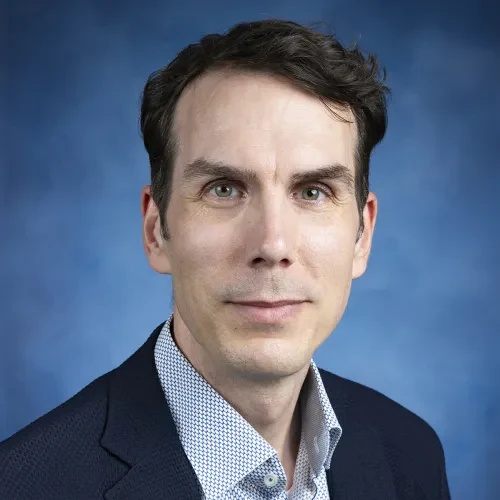
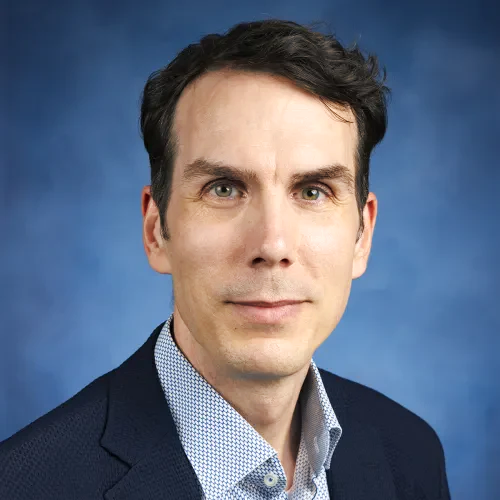
Update site.css and site.js version across multiple pages for consistent styling and functionality improvements.

diff --git a/people/lars-fritsche/index.html b/people/lars-fritsche/index.html
@@ -29,7 +29,7 @@
 <link rel="icon" href="/assets/images/fritsche-lab-favicon.svg" type="image/svg+xml">
 <link rel="alternate" type="application/atom+xml" title="Fritsche Lab updates" href="/feed.xml">
 <script src="/assets/js/theme.js"></script>
-<link rel="stylesheet" href="/assets/css/site.css?v=1789827741">
+<link rel="stylesheet" href="/assets/css/site.css?v=1790614448">
 
 <script type="application/ld+json">{  "@context": "https://schema.org",    "@type": "Person",  "name": "Lars Fritsche",  "description": "Lars Fritsche is a statistical geneticist and biostatistician who leads the Fritsche Lab at the University of Michigan.",  "jobTitle": "Lab Head",  "url": "https://fritschelab.org/people/lars-fritsche/",  "affiliation": {"@type": "CollegeOrUniversity", "name": "University of Michigan", "url": "https://umich.edu/"},  "image": "https://fritschelab.org/assets/images/people/lars-fritsche.webp",  "sameAs": ["https://medschool.umich.edu/profile/4980/lars-fritsche", "https://sph.umich.edu/faculty-profiles/fritsche-lars.html", "https://orcid.org/0000-0002-2110-1690", "https://scholar.google.com/citations?user=K8kwj8cAAAAJ", "https://www.webofscience.com/wos/author/record/AAF-9387-2019", "https://www.scopus.com/authid/detail.uri?authorId=9233771300"]  }</script>
 
@@ -205,6 +205,6 @@
   </div>
 </footer>
 
-    <script src="/assets/js/site.js?v=1789827741" defer></script>
+    <script src="/assets/js/site.js?v=1790614448" defer></script>
   </body>
 </html>

diff --git a/people/shivalika-pathania/index.html b/people/shivalika-pathania/index.html
@@ -29,7 +29,7 @@
 <link rel="icon" href="/assets/images/fritsche-lab-favicon.svg" type="image/svg+xml">
 <link rel="alternate" type="application/atom+xml" title="Fritsche Lab updates" href="/feed.xml">
 <script src="/assets/js/theme.js"></script>
-<link rel="stylesheet" href="/assets/css/site.css?v=1789827741">
+<link rel="stylesheet" href="/assets/css/site.css?v=1790614448">
 
 <script type="application/ld+json">{  "@context": "https://schema.org",    "@type": "Person",  "name": "Shivalika Pathania",  "description": "Shivalika Pathania applies statistical genetics and integrates genomic and electronic health record data to study complex disease risk.",  "jobTitle": "Postdoctoral Research Fellow",  "url": "https://fritschelab.org/people/shivalika-pathania/",  "affiliation": {"@type": "CollegeOrUniversity", "name": "University of Michigan", "url": "https://umich.edu/"},  "image": "https://fritschelab.org/assets/images/people/shivalika-pathania.webp",  "sameAs": ["https://orcid.org/0000-0001-5601-9569", "https://scholar.google.com/citations?user=UoaknzEAAAAJ&hl=en", "https://github.com/ShivalikaP", "https://www.linkedin.com/in/shivalika-pathania-95214465"]  }</script>
 
@@ -209,6 +209,6 @@
   </div>
 </footer>
 
-    <script src="/assets/js/site.js?v=1789827741" defer></script>
+    <script src="/assets/js/site.js?v=1790614448" defer></script>
   </body>
 </html>

diff --git a/collaborations/index.html b/collaborations/index.html
@@ -29,7 +29,7 @@
 <link rel="icon" href="/assets/images/fritsche-lab-favicon.svg" type="image/svg+xml">
 <link rel="alternate" type="application/atom+xml" title="Fritsche Lab updates" href="/feed.xml">
 <script src="/assets/js/theme.js"></script>
-<link rel="stylesheet" href="/assets/css/site.css?v=1789827741">
+<link rel="stylesheet" href="/assets/css/site.css?v=1790614448">
 
 <script type="application/ld+json">{  "@context": "https://schema.org",    "@type": "WebPage",  "name": "Research & Collaboration Network",  "description": "Explore collaborators, keywords, and research directions in an interactive map of the Fritsche Lab publication record.",  "url": "https://fritschelab.org/collaborations/",  "isPartOf": {"@type": "WebSite", "name": "Fritsche Lab", "url": "https://fritschelab.org"}  }</script>
 
@@ -251,7 +251,7 @@
 
 <script src="/assets/vendor/cytoscape/cytoscape.min.js" defer=""></script>
 
-<script src="/assets/js/collaboration-network.js?v=1789827741" defer=""></script>
+<script src="/assets/js/collaboration-network.js?v=1790614448" defer=""></script>
 
 
   </div>
@@ -286,6 +286,6 @@
   </div>
 </footer>
 
-    <script src="/assets/js/site.js?v=1789827741" defer></script>
+    <script src="/assets/js/site.js?v=1790614448" defer></script>
   </body>
 </html>

diff --git a/people/ryan-welch/index.html b/people/ryan-welch/index.html
@@ -29,7 +29,7 @@
 <link rel="icon" href="/assets/images/fritsche-lab-favicon.svg" type="image/svg+xml">
 <link rel="alternate" type="application/atom+xml" title="Fritsche Lab updates" href="/feed.xml">
 <script src="/assets/js/theme.js"></script>
-<link rel="stylesheet" href="/assets/css/site.css?v=1789827741">
+<link rel="stylesheet" href="/assets/css/site.css?v=1790614448">
 
 <script type="application/ld+json">{  "@context": "https://schema.org",    "@type": "Person",  "name": "Ryan Welch",  "description": "Ryan Welch’s research spans statistical genetics, bioinformatics, computational genomics, pharmacogenomics, and research software development.",  "jobTitle": "Application Programmer/Analyst Lead",  "url": "https://fritschelab.org/people/ryan-welch/",  "affiliation": {"@type": "CollegeOrUniversity", "name": "University of Michigan", "url": "https://umich.edu/"},  "image": "https://fritschelab.org/assets/images/people/ryan-welch.webp",  "sameAs": ["https://github.com/welchr", "https://orcid.org/0000-0001-6378-1295"]  }</script>
 
@@ -201,6 +201,6 @@
   </div>
 </footer>
 
-    <script src="/assets/js/site.js?v=1789827741" defer></script>
+    <script src="/assets/js/site.js?v=1790614448" defer></script>
   </body>
 </html>

diff --git a/people/tai-yang/index.html b/people/tai-yang/index.html
@@ -29,7 +29,7 @@
 <link rel="icon" href="/assets/images/fritsche-lab-favicon.svg" type="image/svg+xml">
 <link rel="alternate" type="application/atom+xml" title="Fritsche Lab updates" href="/feed.xml">
 <script src="/assets/js/theme.js"></script>
-<link rel="stylesheet" href="/assets/css/site.css?v=1789827741">
+<link rel="stylesheet" href="/assets/css/site.css?v=1790614448">
 
 <script type="application/ld+json">{  "@context": "https://schema.org",    "@type": "Person",  "name": "Tai Yang",  "description": "Tai Yang generates polygenic scores using published GWAS summary statistics and benchmarks them for mental health, sleep, and behavioral traits. He also develops distribution-valued regression methods.",  "jobTitle": "Graduate Student Research Assistant (GSRA) and PhD Candidate",  "url": "https://fritschelab.org/people/tai-yang/",  "affiliation": {"@type": "CollegeOrUniversity", "name": "University of Michigan", "url": "https://umich.edu/"},  "image": "https://fritschelab.org/assets/images/people/tai-yang.webp"  }</script>
 
@@ -213,6 +213,6 @@
   </div>
 </footer>
 
-    <script src="/assets/js/site.js?v=1789827741" defer></script>
+    <script src="/assets/js/site.js?v=1790614448" defer></script>
   </body>
 </html>

diff --git a/people/sarah-fazal/index.html b/people/sarah-fazal/index.html
@@ -29,7 +29,7 @@
 <link rel="icon" href="/assets/images/fritsche-lab-favicon.svg" type="image/svg+xml">
 <link rel="alternate" type="application/atom+xml" title="Fritsche Lab updates" href="/feed.xml">
 <script src="/assets/js/theme.js"></script>
-<link rel="stylesheet" href="/assets/css/site.css?v=1789827741">
+<link rel="stylesheet" href="/assets/css/site.css?v=1790614448">
 
 <script type="application/ld+json">{  "@context": "https://schema.org",    "@type": "Person",  "name": "Sarah Fazal",  "description": "Sarah Fazal studies chronic overlapping pain conditions and nociplastic pain, with a focus on patient heterogeneity and biological mechanisms.",  "jobTitle": "Postdoctoral Research Fellow",  "url": "https://fritschelab.org/people/sarah-fazal/",  "affiliation": {"@type": "CollegeOrUniversity", "name": "University of Michigan", "url": "https://umich.edu/"},  "image": "https://fritschelab.org/assets/images/people/sarah-fazal.webp",  "sameAs": ["https://orcid.org/0000-0001-9064-6152"]  }</script>
 
@@ -197,6 +197,6 @@
   </div>
 </footer>
 
-    <script src="/assets/js/site.js?v=1789827741" defer></script>
+    <script src="/assets/js/site.js?v=1790614448" defer></script>
   </body>
 </html>

diff --git a/news/amd-blindness-prediction-funding-2018/index.html b/news/amd-blindness-prediction-funding-2018/index.html
@@ -29,7 +29,7 @@
 <link rel="icon" href="/assets/images/fritsche-lab-favicon.svg" type="image/svg+xml">
 <link rel="alternate" type="application/atom+xml" title="Fritsche Lab updates" href="/feed.xml">
 <script src="/assets/js/theme.js"></script>
-<link rel="stylesheet" href="/assets/css/site.css?v=1789827741">
+<link rel="stylesheet" href="/assets/css/site.css?v=1790614448">
 
 <script type="application/ld+json">{  "@context": "https://schema.org",    "@type": "NewsArticle",  "headline": "Eye expert leads research to better predict blindness in patients",  "description": "An international collaboration combines clinical measures, retinal imaging, genetics, and machine learning to study progression of age-related macular degeneration.",  "datePublished": "2018-07-12T00:00:00-04:00",  "mainEntityOfPage": "https://fritschelab.org/news/amd-blindness-prediction-funding-2018/",  "publisher": {"@type": "ResearchOrganization", "name": "Fritsche Lab", "url": "https://fritschelab.org"}  }</script>
 
@@ -193,6 +193,6 @@
   </div>
 </footer>
 
-    <script src="/assets/js/site.js?v=1789827741" defer></script>
+    <script src="/assets/js/site.js?v=1790614448" defer></script>
   </body>
 </html>

diff --git a/news/cancer-immunotherapy-outcomes-2024/index.html b/news/cancer-immunotherapy-outcomes-2024/index.html
@@ -29,7 +29,7 @@
 <link rel="icon" href="/assets/images/fritsche-lab-favicon.svg" type="image/svg+xml">
 <link rel="alternate" type="application/atom+xml" title="Fritsche Lab updates" href="/feed.xml">
 <script src="/assets/js/theme.js"></script>
-<link rel="stylesheet" href="/assets/css/site.css?v=1789827741">
+<link rel="stylesheet" href="/assets/css/site.css?v=1790614448">
 
 <script type="application/ld+json">{  "@context": "https://schema.org",    "@type": "NewsArticle",  "headline": "Comparing cancer immunotherapy outcomes in Black and white patients",  "description": "A study using Veterans Health Administration records compared survival and immune-related adverse events in Black and white patients receiving cancer immunotherapy.",  "datePublished": "2024-12-04T00:00:00-05:00",  "mainEntityOfPage": "https://fritschelab.org/news/cancer-immunotherapy-outcomes-2024/",  "publisher": {"@type": "ResearchOrganization", "name": "Fritsche Lab", "url": "https://fritschelab.org"}  }</script>
 
@@ -201,6 +201,6 @@
   </div>
 </footer>
 
-    <script src="/assets/js/site.js?v=1789827741" defer></script>
+    <script src="/assets/js/site.js?v=1790614448" defer></script>
   </body>
 </html>

diff --git a/index.html b/index.html
@@ -29,7 +29,7 @@
 <link rel="icon" href="/assets/images/fritsche-lab-favicon.svg" type="image/svg+xml">
 <link rel="alternate" type="application/atom+xml" title="Fritsche Lab updates" href="/feed.xml">
 <script src="/assets/js/theme.js"></script>
-<link rel="stylesheet" href="/assets/css/site.css?v=1789827741">
+<link rel="stylesheet" href="/assets/css/site.css?v=1790614448">
 
 <script type="application/ld+json">{  "@context": "https://schema.org",    "@type": "ResearchOrganization",  "name": "Fritsche Lab",  "url": "https://fritschelab.org/",  "logo": "https://fritschelab.org/assets/images/fritsche-lab-logo.svg",  "description": "The Fritsche Lab studies how genomic and multimodal prediction models perform across biobanks, health systems, and patient populations.",  "email": "mailto:larsf+lab@umich.edu",  "parentOrganization": {"@type": "CollegeOrUniversity", "name": "University of Michigan", "url": "https://umich.edu/"},  "sameAs": ["https://github.com/FritscheLab"]  }</script>
 
@@ -600,6 +600,6 @@
   </div>
 </footer>
 
-    <script src="/assets/js/site.js?v=1789827741" defer></script>
+    <script src="/assets/js/site.js?v=1790614448" defer></script>
   </body>
 </html>

diff --git a/news/compass-mental-health-care-2026/index.html b/news/compass-mental-health-care-2026/index.html
@@ -29,7 +29,7 @@
 <link rel="icon" href="/assets/images/fritsche-lab-favicon.svg" type="image/svg+xml">
 <link rel="alternate" type="application/atom+xml" title="Fritsche Lab updates" href="/feed.xml">
 <script src="/assets/js/theme.js"></script>
-<link rel="stylesheet" href="/assets/css/site.css?v=1789827741">
+<link rel="stylesheet" href="/assets/css/site.css?v=1790614448">
 
 <script type="application/ld+json">{  "@context": "https://schema.org",    "@type": "NewsArticle",  "headline": "U-M researchers aim to shorten the path to effective mental health care",  "description": "COMPASS participants contribute repeated reports, genetic samples, and health record data to study why mental health treatment responses differ.",  "datePublished": "2026-06-08T00:00:00-04:00",  "mainEntityOfPage": "https://fritschelab.org/news/compass-mental-health-care-2026/",  "publisher": {"@type": "ResearchOrganization", "name": "Fritsche Lab", "url": "https://fritschelab.org"}  }</script>
 
@@ -185,6 +185,6 @@
   </div>
 </footer>
 
-    <script src="/assets/js/site.js?v=1789827741" defer></script>
+    <script src="/assets/js/site.js?v=1790614448" defer></script>
   </body>
 </html>

diff --git a/news/cancer-polygenic-scores-2018/index.html b/news/cancer-polygenic-scores-2018/index.html
@@ -29,7 +29,7 @@
 <link rel="icon" href="/assets/images/fritsche-lab-favicon.svg" type="image/svg+xml">
 <link rel="alternate" type="application/atom+xml" title="Fritsche Lab updates" href="/feed.xml">
 <script src="/assets/js/theme.js"></script>
-<link rel="stylesheet" href="/assets/css/site.css?v=1789827741">
+<link rel="stylesheet" href="/assets/css/site.css?v=1790614448">
 
 <script type="application/ld+json">{  "@context": "https://schema.org",    "@type": "NewsArticle",  "headline": "Evaluating cancer polygenic risk scores in the Michigan Genomics Initiative",  "description": "Cancer polygenic risk scores were associated with diagnoses of cancers and related conditions in the Michigan Genomics Initiative.",  "datePublished": "2018-05-18T00:00:00-04:00",  "mainEntityOfPage": "https://fritschelab.org/news/cancer-polygenic-scores-2018/",  "publisher": {"@type": "ResearchOrganization", "name": "Fritsche Lab", "url": "https://fritschelab.org"}  }</script>
 
@@ -203,6 +203,6 @@
   </div>
 </footer>
 
-    <script src="/assets/js/site.js?v=1789827741" defer></script>
+    <script src="/assets/js/site.js?v=1790614448" defer></script>
   </body>
 </html>

diff --git a/news/covid-vaccine-effectiveness-2024/index.html b/news/covid-vaccine-effectiveness-2024/index.html
@@ -29,7 +29,7 @@
 <link rel="icon" href="/assets/images/fritsche-lab-favicon.svg" type="image/svg+xml">
 <link rel="alternate" type="application/atom+xml" title="Fritsche Lab updates" href="/feed.xml">
 <script src="/assets/js/theme.js"></script>
-<link rel="stylesheet" href="/assets/css/site.css?v=1789827741">
+<link rel="stylesheet" href="/assets/css/site.css?v=1790614448">
 
 <script type="application/ld+json">{  "@context": "https://schema.org",    "@type": "NewsArticle",  "headline": "Comparing methods for evaluating COVID-19 booster effectiveness",  "description": "A comparison of observational methods examined how study design and analysis choices affect estimates of COVID-19 booster effectiveness.",  "datePublished": "2024-02-01T00:00:00-05:00",  "mainEntityOfPage": "https://fritschelab.org/news/covid-vaccine-effectiveness-2024/",  "publisher": {"@type": "ResearchOrganization", "name": "Fritsche Lab", "url": "https://fritschelab.org"}  }</script>
 
@@ -201,6 +201,6 @@
   </div>
 </footer>
 
-    <script src="/assets/js/site.js?v=1789827741" defer></script>
+    <script src="/assets/js/site.js?v=1790614448" defer></script>
   </body>
 </html>
